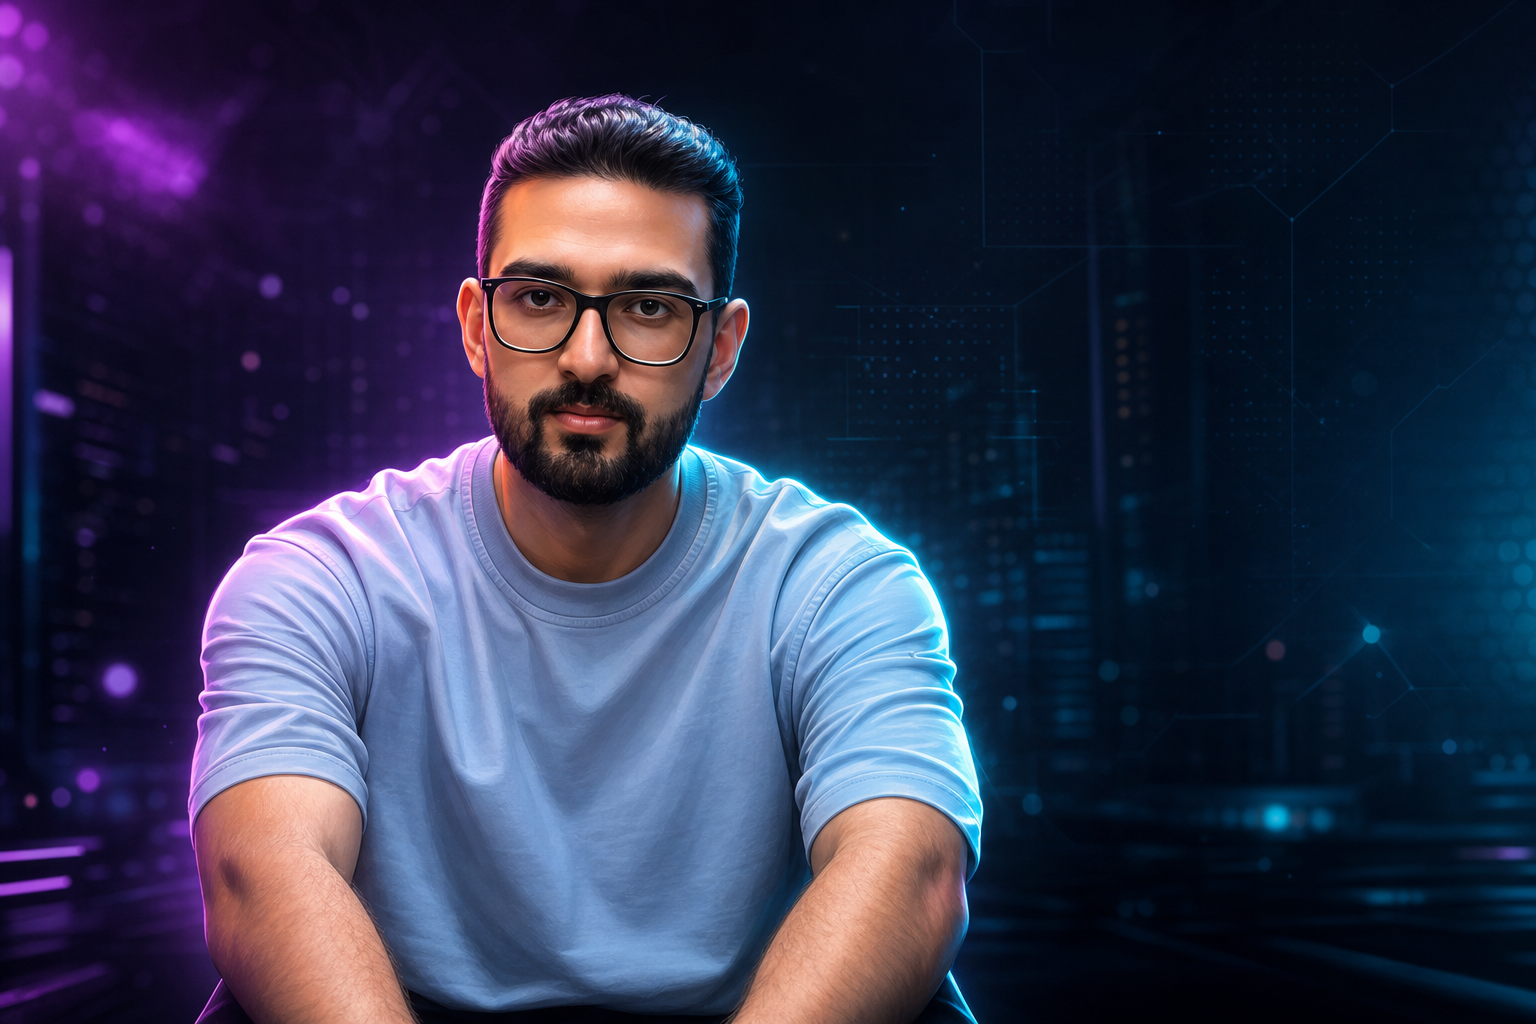
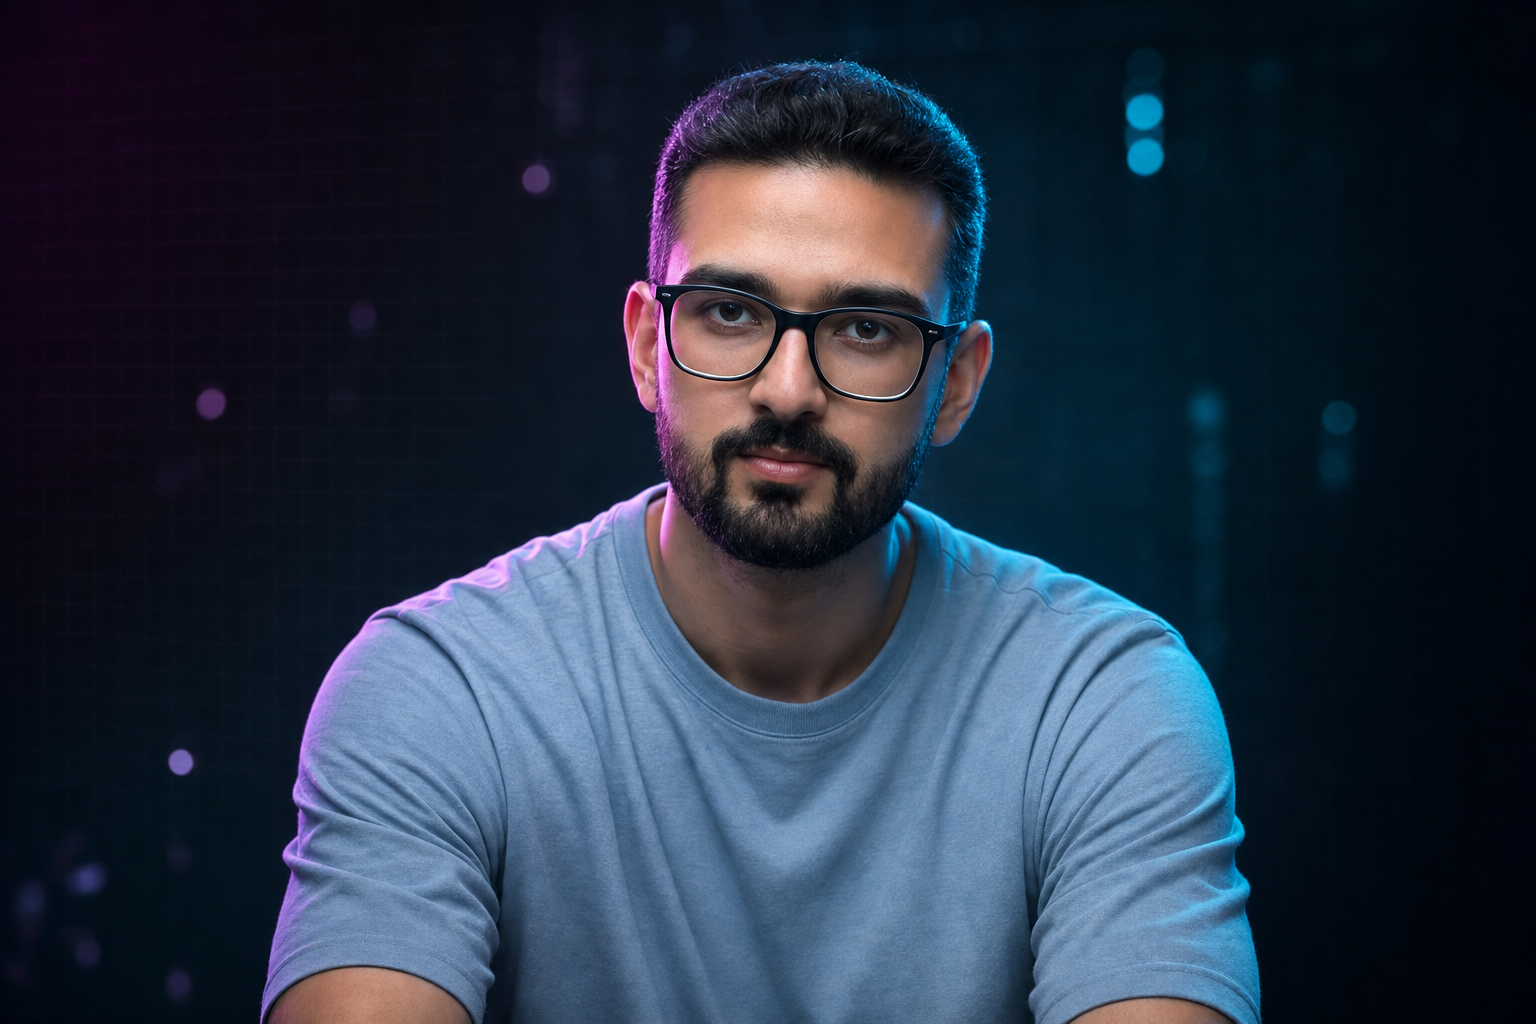
Add new images and update references in layout and profile components

diff --git a/src/components/pages/HomePageContent.tsx b/src/components/pages/HomePageContent.tsx
@@ -59,7 +59,13 @@ export async function HomeHero() {
               <p className="text-sm font-semibold uppercase tracking-[0.3em] text-accent">
                 {t("greeting")}
               </p>
-              <h1 className="font-display text-5xl font-bold leading-[0.95] tracking-tight text-foreground sm:text-6xl lg:text-[5.5rem]">
+              <h1
+                className={`font-display leading-[0.95] tracking-tight text-foreground ${
+                  locale === "fa"
+                    ? "text-4xl font-[950] sm:text-5xl lg:text-[4.25rem]"
+                    : "text-5xl font-bold sm:text-6xl lg:text-[5.5rem]"
+                }`}
+              >
                 {nameParts.map((part, index) => (
                   <span key={`${part}-${index}`} className={index === 0 ? "gradient-text" : ""}>
                     {part}{" "}
@@ -114,7 +120,7 @@ export async function HomeHero() {
                 width={900}
                 height={700}
                 priority
-                className="h-auto w-full object-cover"
+                className="h-auto w-full object-cover object-top"
               />
               <div className="absolute inset-0 bg-[linear-gradient(rgba(255,255,255,0.06)_1px,transparent_1px),linear-gradient(90deg,rgba(255,255,255,0.06)_1px,transparent_1px)] bg-[size:32px_32px]" />
             </div>

diff --git a/src/content/experience.ts b/src/content/experience.ts
@@ -12,6 +12,11 @@ export const experience: ExperienceItem[] = [
     period: "1404 – Present",
   },
   {
+    company: "Talayedaran",
+    role: "Front-End Developer — Next.js",
+    period: "1404 – Present",
+  },
+  {
     company: "Niafam",
     role: "Frontend Developer & UI Designer",
     period: "1401 – 1404",

diff --git a/src/content/profile.ts b/src/content/profile.ts
@@ -5,8 +5,9 @@ export const profile = {
   },
   resumePath: "/CV-en.pdf",
   email: "",
-  avatarPath: "/images/profile.png",
+  avatarPath: "/images/profile-ai.png",
   heroImagePath: "/images/hero-visual.png",
+  portraitPath: "/images/profile-ai.png",
   social: {
     linkedin: "https://linkedin.com/in/aidin78",
     dribbble: "https://dribbble.com/aidin78",

diff --git a/src/app/[locale]/layout.tsx b/src/app/[locale]/layout.tsx
@@ -56,7 +56,7 @@ export async function generateMetadata({
       description: t("description"),
       type: "website",
       locale: locale === "fa" ? "fa_IR" : "en_US",
-      images: ["/images/hero-visual.png"],
+      images: ["/images/profile-ai.png"],
     },
   };
 }

diff --git a/src/components/pages/AboutPageContent.tsx b/src/components/pages/AboutPageContent.tsx
@@ -28,7 +28,7 @@ export async function AboutPageContent() {
             <div className="absolute -inset-3 rounded-[2rem] bg-gradient-to-br from-accent/40 to-accent-secondary/40 blur-2xl" />
             <div className="relative overflow-hidden rounded-[2rem] border border-border">
               <Image
-                src={profile.avatarPath}
+                src={profile.portraitPath}
                 alt={displayName}
                 width={600}
                 height={720}